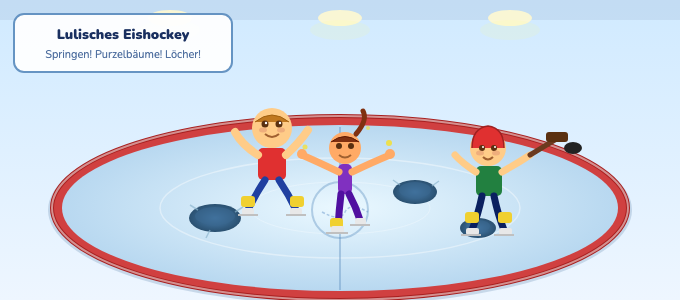
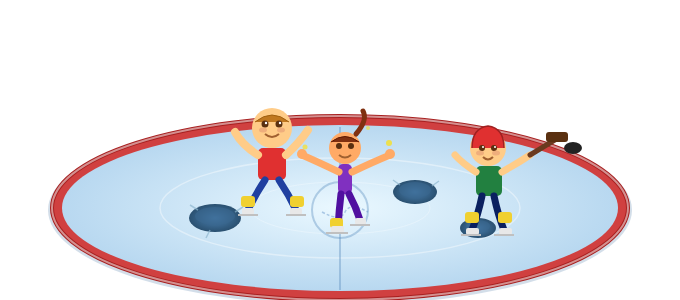
Fix Eisbahn: transparent PNG + hall-background wrapper for kachel/buchseite
- Re-render eisbahn.png as transparent PNG (omitBackground:true, no hall background)
- Kachel: add hall-gradient + ceiling strip + lamps SVG wrapper, then transparent PNG
- Buchseite: same hall-background SVG wrapper pattern
- Karte: transparent PNG now shows cleanly without background box
- All 4 views (modal, kachel, buchseite, karte) now consistently use same illustration

diff --git a/index.html b/index.html
@@ -527,7 +527,17 @@
 
     <a class="ort-card" onclick="oeffneOrt('eisbahn')">
       <svg class="ort-illu" viewBox="0 0 300 225" xmlns="http://www.w3.org/2000/svg">
-        <image href="img/eisbahn.png" x="0" y="0" width="300" height="225" preserveAspectRatio="xMidYMid slice"/>
+        <defs>
+          <linearGradient id="eis-bg-k" x1="0" y1="0" x2="0" y2="1">
+            <stop offset="0%" stop-color="#d0eaff"/><stop offset="100%" stop-color="#eef6ff"/>
+          </linearGradient>
+        </defs>
+        <rect width="300" height="225" fill="url(#eis-bg-k)"/>
+        <rect x="0" y="0" width="300" height="10" fill="#b0c8e0" opacity="0.4"/>
+        <ellipse cx="75" cy="8" rx="10" ry="4" fill="#fff8d0" opacity="0.9"/>
+        <ellipse cx="150" cy="8" rx="10" ry="4" fill="#fff8d0" opacity="0.9"/>
+        <ellipse cx="225" cy="8" rx="10" ry="4" fill="#fff8d0" opacity="0.9"/>
+        <image href="img/eisbahn.png" x="-20" y="75" width="340" height="150"/>
       </svg>
       <div class="ort-body">
         <h2>Die Eisbahn</h2>
@@ -848,7 +858,17 @@
       <!-- SEITE: Eisbahn -->
       <div class="buch-seite" style="background:white;border-radius:12px;overflow:hidden;margin-bottom:1rem;box-shadow:var(--shadow);display:flex;flex-direction:column">
         <svg viewBox="0 0 600 350" xmlns="http://www.w3.org/2000/svg" style="width:100%;display:block">
-          <image href="img/eisbahn.png" x="0" y="25" width="600" height="265" preserveAspectRatio="xMidYMid meet"/>
+          <defs>
+            <linearGradient id="eis-bg-b" x1="0" y1="0" x2="0" y2="1">
+              <stop offset="0%" stop-color="#d0eaff"/><stop offset="100%" stop-color="#eef6ff"/>
+            </linearGradient>
+          </defs>
+          <rect width="600" height="350" fill="url(#eis-bg-b)"/>
+          <rect x="0" y="0" width="600" height="18" fill="#b0c8e0" opacity="0.4"/>
+          <ellipse cx="150" cy="14" rx="19" ry="7" fill="#fff8d0" opacity="0.9"/>
+          <ellipse cx="300" cy="14" rx="19" ry="7" fill="#fff8d0" opacity="0.9"/>
+          <ellipse cx="450" cy="14" rx="19" ry="7" fill="#fff8d0" opacity="0.9"/>
+          <image href="img/eisbahn.png" x="-10" y="77" width="620" height="273"/>
         </svg>
         <div class="b-text" style="padding:1rem 1.4rem 1.2rem;background:#fdf6e3;border-top:4px solid #4ab0e8">
           <h2 style="font-weight:900;margin-bottom:0.4rem">⛸ Die Eisbahn</h2>
